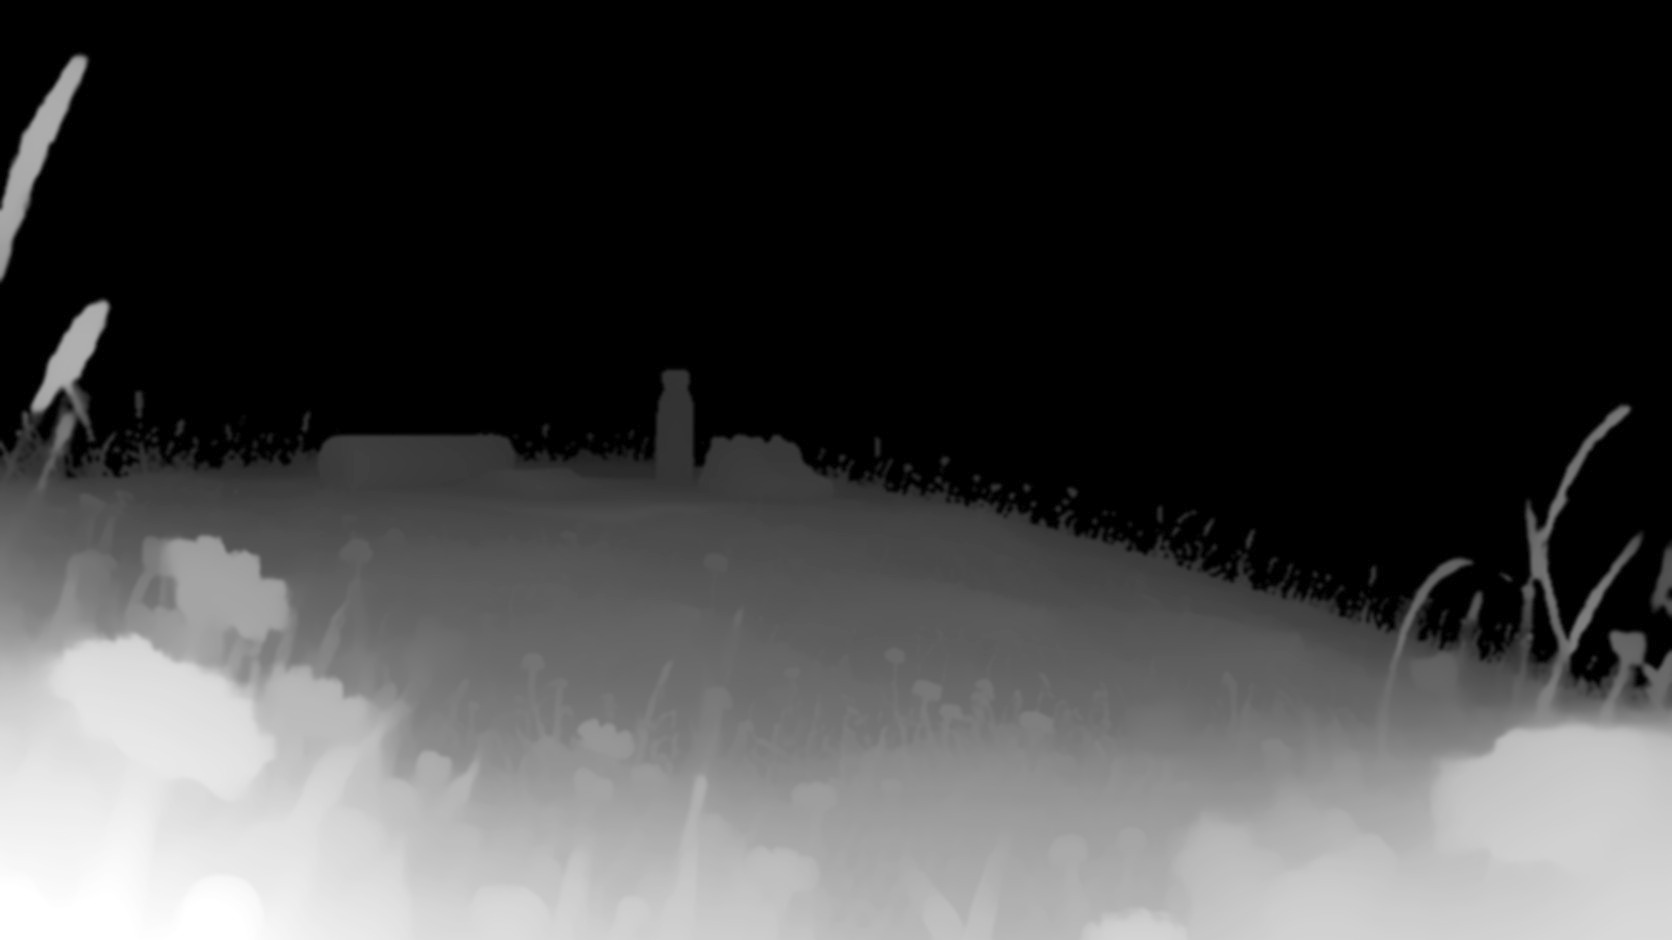
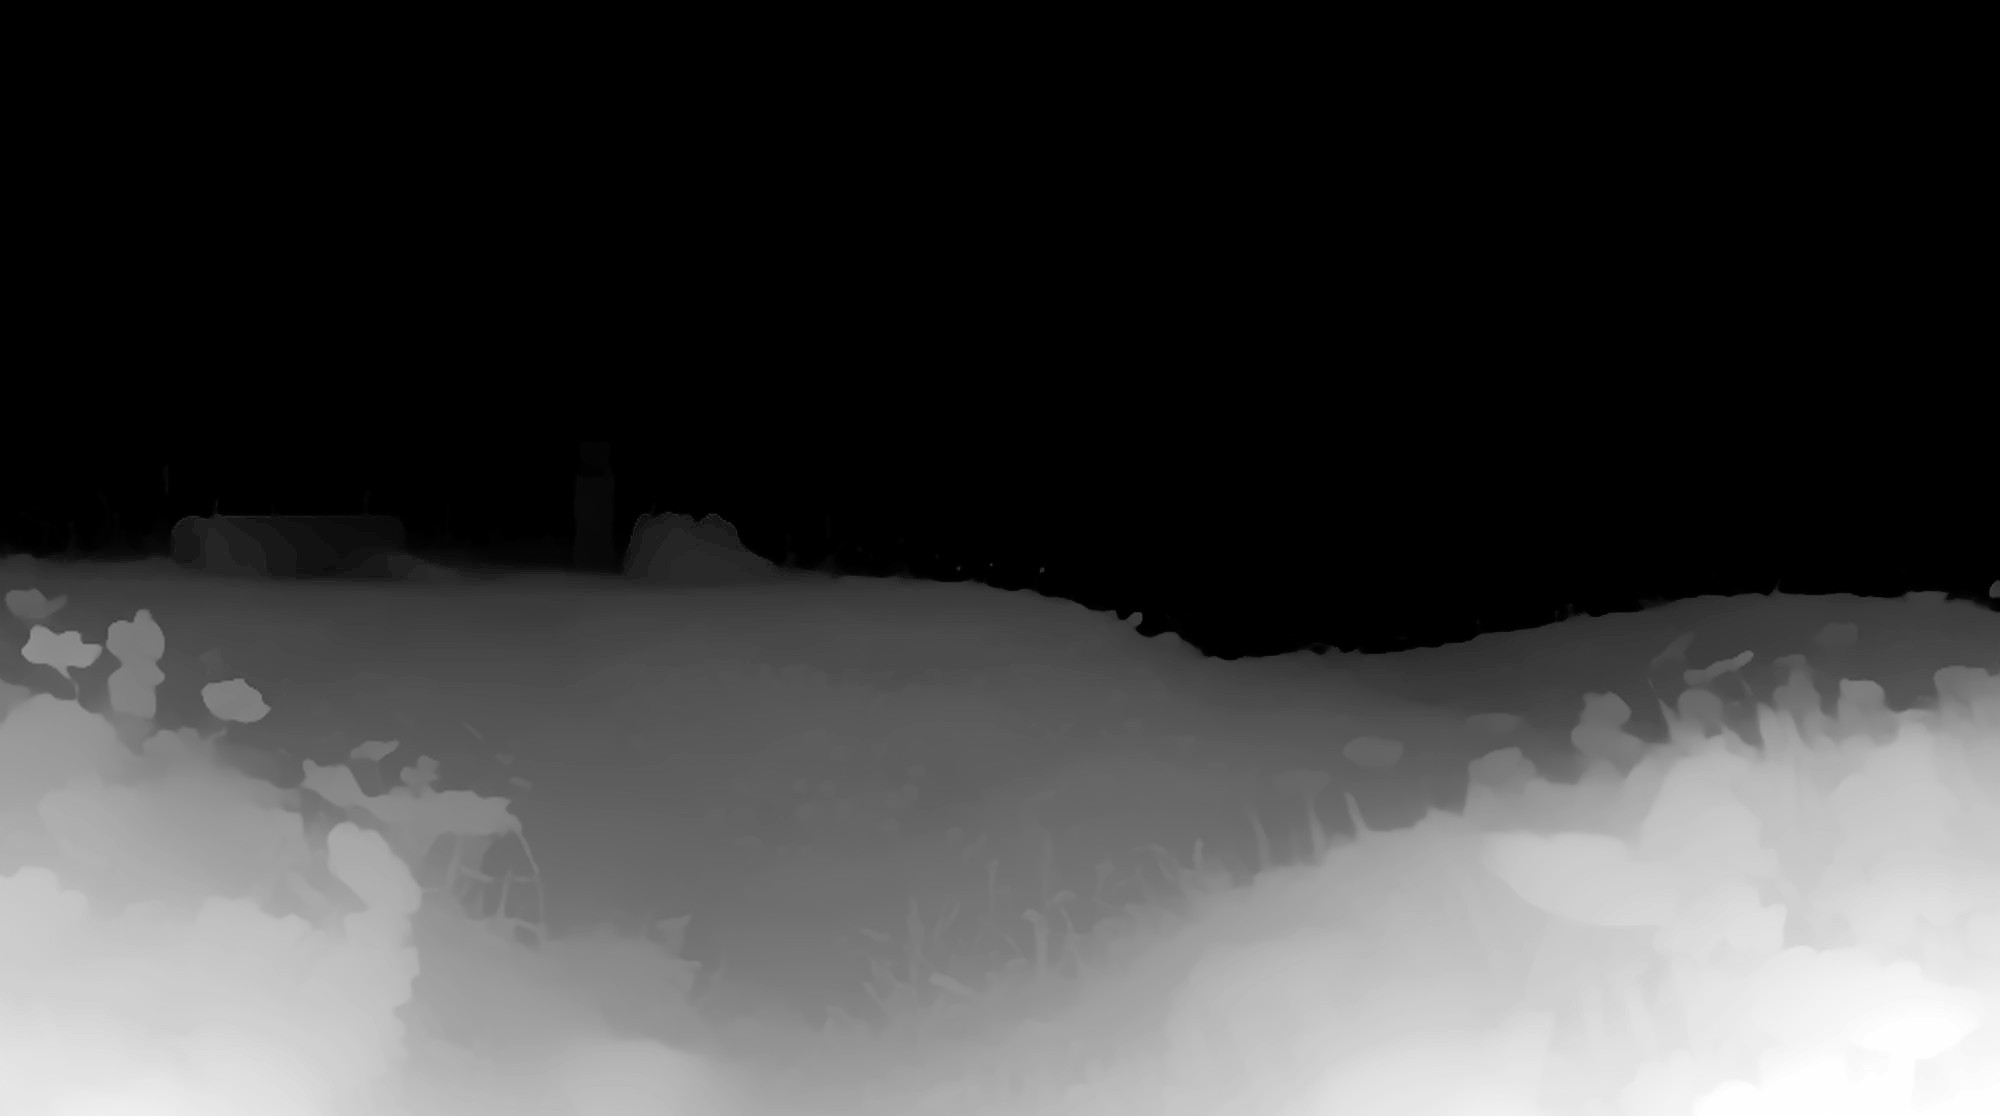
Polish waitlist page: type, background, cleanup
- Geist for the headline, Inter Tight for the name, Figtree for the rest
- New meadow background moved left of the card, with a fresh depth map
  and the crop point shifted to match
- Keep Chrome's autofill from painting the email field blue
- Drop the avatar row, say "Coming soon", narrow the card to 400px
- Remove unused photos, icon and CSS variable

diff --git a/src/style.css b/src/style.css
@@ -1,13 +1,13 @@
 /* The layout follows the Trancewait template; the look is the mobile app's
  * own (mobile-app/constants/theme.ts): its ink and warm greys, the peach /
- * rose / lavender accent, Quicksand throughout, 32px cards and pill buttons. */
+ * rose / lavender accent, 32px cards and pill buttons. The type is the page's
+ * own: Geist for the headline, Inter Tight for the name, Figtree for the rest. */
 :root {
   --white: #ffffff;
   --ink: #141414;
   --ink-hover: #2e2e2e;
   --ink-soft: #55534f;
   --grey-dark: #9c9c9c;
-  --grey-fill: #f2f2f2;
   --page: #faf9f7;
   --red: #e63950;
   /* gradients.accent, also the logo's metal (see src/metal.ts). */
@@ -17,7 +17,9 @@
   --accent: linear-gradient(90deg, var(--peach), var(--rose), var(--lavender));
 
   --ease: cubic-bezier(0.6, 0, 0.2, 1);
-  --font: 'Quicksand', system-ui, sans-serif;
+  --font: 'Figtree', system-ui, sans-serif;
+  --font-title: 'Geist', system-ui, sans-serif;
+  --font-brand: 'Inter Tight', system-ui, sans-serif;
   --card-radius: 32px;
 
   color-scheme: light;
@@ -55,7 +57,7 @@ button { font: inherit; color: inherit; border: 0; background: none; padding: 0;
   position: absolute; inset: 0;
   /* The plain photo stands in until the WebGL maps load, or for good when
    * WebGL is missing; at rest the shader draws exactly this. */
-  background: #111 url('/scene/scene.jpg') 35% 50% / cover no-repeat;
+  background: #111 url('/scene/scene.jpg') 25% 50% / cover no-repeat;
 }
 .scene canvas { position: absolute; inset: 0; width: 100%; height: 100%; display: block; opacity: 0; }
 .scene canvas.ready { opacity: 1; }
@@ -69,7 +71,7 @@ button { font: inherit; color: inherit; border: 0; background: none; padding: 0;
 
 /* One column: logo, words, the form (or the place it earns), proof. */
 .card {
-  position: relative; width: 100%; max-width: 440px; padding: 40px 32px 32px;
+  position: relative; width: 100%; max-width: 400px; padding: 40px 32px 32px;
   display: flex; flex-direction: column; align-items: center; gap: 24px;
   border-radius: var(--card-radius);
   background: linear-gradient(170deg, #f7c3a07a 0%, #efa3b752 24%, #d8c6ee47 44%, #faf9f7ad 64%);
@@ -110,10 +112,11 @@ button { font: inherit; color: inherit; border: 0; background: none; padding: 0;
 /* The name set under the metal logo, so the two read as one lockup. */
 .eyebrow {
   margin: -2px 0 14px;
-  font: 700 22px/1 var(--font); letter-spacing: -0.03em; color: var(--ink);
+  font: 700 20px/1 var(--font-brand); letter-spacing: -0.04em; color: var(--white); opacity: 0.55;
+  text-shadow: 0 1px 3px rgba(20, 20, 20, 0.18);
 }
-h1 { font: 700 44px/1.05 var(--font); letter-spacing: -0.04em; color: #33302d; text-wrap: balance; }
-.lede { max-width: 360px; color: var(--ink-soft); font: 500 16px/1.45 var(--font); text-wrap: balance; }
+h1 { font: 500 40px/1 var(--font-title); letter-spacing: -0.06em; color: #09090b; text-wrap: balance; }
+.lede { max-width: 360px; color: #3f3f46; font: 500 16px/22px var(--font); text-wrap: balance; }
 
 /* --- the form: one pill, the button inside it --------------------------- */
 
@@ -132,11 +135,19 @@ h1 { font: 700 44px/1.05 var(--font); letter-spacing: -0.04em; color: #33302d; t
   font: 600 16px/1.2 var(--font); color: var(--ink);
 }
 .pill input::placeholder { color: var(--grey-dark); opacity: 1; }
+/* Chrome paints autofilled fields light blue with an !important it won't let
+   us override; delaying the transition forever keeps our own look instead. */
+.pill input:-webkit-autofill,
+.pill input:autofill {
+  -webkit-text-fill-color: var(--ink);
+  caret-color: var(--ink);
+  transition: background-color 0s 600000s, color 0s 600000s;
+}
 
 /* The app's solid pill: ink with white type. */
 .submit {
   flex: none; padding: 13px 20px; border-radius: 999px; background: var(--ink);
-  font: 700 15px/1.2 var(--font); color: var(--white); white-space: nowrap;
+  font: 600 15px/1.2 var(--font); color: var(--white); white-space: nowrap;
   transition: background-color 0.2s ease, transform 0.4s cubic-bezier(0.3, 1.3, 0.5, 1), opacity 0.2s ease;
 }
 .submit:not(:disabled):active { transform: scale(0.97); }
@@ -162,10 +173,10 @@ h1 { font: 700 44px/1.05 var(--font); letter-spacing: -0.04em; color: #33302d; t
   display: flex; flex-direction: column; align-items: center; gap: 2px; padding: 18px 16px 14px;
   border-radius: 24px; background: rgba(255, 255, 255, 0.75);
 }
-.ticket span { font: 700 12px/1.2 var(--font); letter-spacing: 0.08em; text-transform: uppercase; color: var(--ink-soft); }
+.ticket span { font: 600 12px/1.2 var(--font); letter-spacing: 0.08em; text-transform: uppercase; color: var(--ink-soft); }
 /* The place marked with the accent, like a highlighter stroke under it. */
 .ticket strong {
-  font: 700 48px/1.1 var(--font); letter-spacing: -0.04em; padding: 0 6px;
+  font: 600 52px/1.1 var(--font); letter-spacing: -0.045em; padding: 0 6px;
   background: var(--accent) 0 86% / 100% 0.3em no-repeat;
 }
 .hint { color: var(--ink-soft); font-size: 14px; text-wrap: balance; }
@@ -179,19 +190,13 @@ h1 { font: 700 44px/1.05 var(--font); letter-spacing: -0.04em; color: #33302d; t
 .channels { display: flex; flex-wrap: wrap; justify-content: center; gap: 8px; }
 .channel {
   padding: 8px 14px; border-radius: 999px; background: rgba(255, 255, 255, 0.6);
-  font: 700 13px/1.2 var(--font); color: var(--ink); text-decoration: none;
+  font: 600 13px/1.2 var(--font); color: var(--ink); text-decoration: none;
   transition: background-color 0.2s ease;
 }
 
 /* --- proof ------------------------------------------------------------- */
 
-.proof { display: flex; align-items: center; gap: 12px; }
-.faces { display: flex; }
-.faces span { position: relative; width: 16px; height: 28px; flex: none; }
-.faces img {
-  position: absolute; top: 0; left: -6px; width: 28px; height: 28px; max-width: none;
-  border: 2px solid var(--white); border-radius: 999px; object-fit: cover;
-}
+.proof { display: flex; align-items: center; }
 #count { font: 600 14px/1.3 var(--font); color: var(--ink-soft); white-space: nowrap; }
 
 
@@ -213,7 +218,7 @@ h1 { font: 700 44px/1.05 var(--font); letter-spacing: -0.04em; color: #33302d; t
 @media (max-width: 809.98px) {
   .stage { padding: 16px; }
   .card { padding: 32px 20px 24px; gap: 20px; }
-  h1 { font-size: 38px; }
+  h1 { font-size: 36px; }
 }
 @media (max-width: 379.98px) {
   .pill { flex-direction: column; align-items: stretch; border-radius: 24px; }

diff --git a/index.html b/index.html
@@ -14,7 +14,7 @@
     <link rel="preconnect" href="https://fonts.googleapis.com" />
     <link rel="preconnect" href="https://fonts.gstatic.com" crossorigin />
     <link
-      href="https://fonts.googleapis.com/css2?family=Quicksand:wght@500;600;700&display=swap"
+      href="https://fonts.googleapis.com/css2?family=Figtree:wght@500;600&family=Geist:wght@500&family=Inter+Tight:wght@700&display=swap"
       rel="stylesheet"
     />
     <link rel="preload" as="image" href="/scene/scene.jpg" />
@@ -34,7 +34,7 @@
         </div>
 
         <div class="texts">
-          <h2 class="eyebrow reveal" style="--delay: 0.65s">SelfEra</h2>
+          <h2 class="eyebrow reveal" style="--delay: 0.65s">Selfera</h2>
           <h1 class="reveal" style="--delay: 0.75s">Welcome to your new era</h1>
           <p class="lede reveal" style="--delay: 0.85s">
             The small things you do every day decide who you’ll be a year from now.
@@ -71,12 +71,7 @@
         <p id="status" class="status" role="status" aria-live="polite"></p>
 
         <div class="proof reveal" style="--delay: 1.05s">
-          <span class="faces" aria-hidden="true">
-            <span><img src="/photos/gym-floor-selfie.jpg" alt="" /></span>
-            <span><img src="/photos/sunset-walk.jpg" alt="" /></span>
-            <span><img src="/photos/book-in-bed.jpg" alt="" /></span>
-          </span>
-          <p id="count">Coming to iOS &amp; Android</p>
+          <p id="count">Coming soon to iOS &amp; Android</p>
         </div>
       </div>
     </main>

diff --git a/src/depth.ts b/src/depth.ts
@@ -42,7 +42,7 @@ const SMOOTHING = 0.08;
 const ZOOM = 1;
 // The objects on the hill sit left of centre, so narrow screens crop around
 // them rather than the middle. Keep in step with .scene's background-position.
-const FOCUS: [number, number] = [0.35, 0.5];
+const FOCUS: [number, number] = [0.25, 0.5];
 
 export function startDepthScene(canvas: HTMLCanvasElement, area: HTMLElement, image: string, depthMap: string) {
   const gl = canvas.getContext('webgl', { antialias: false }) as WebGLRenderingContext | null;

diff --git a/README.md b/README.md
@@ -6,9 +6,9 @@ who joins with it.
 
 Vite + TypeScript, no framework. Sign-ups go to Supabase.
 
-The layout started from the Trancewait Framer template; the colours, type
-(Quicksand) and shapes are the mobile app's own, from
-`mobile-app/constants/theme.ts`. The background is a photo
+The layout started from the Trancewait Framer template; the colours and
+shapes are the mobile app's own, from `mobile-app/constants/theme.ts`. The type
+is not: Geist for the headline, Inter Tight for the name, Figtree for the rest. The background is a photo
 plus a depth map (`public/scene/`) that `src/depth.ts` shifts with the
 cursor. The chrome logo is the template's liquid-metal shader
 (`src/metal.frag.glsl`), run on `public/logo-mask.png`. To swap the logo,
